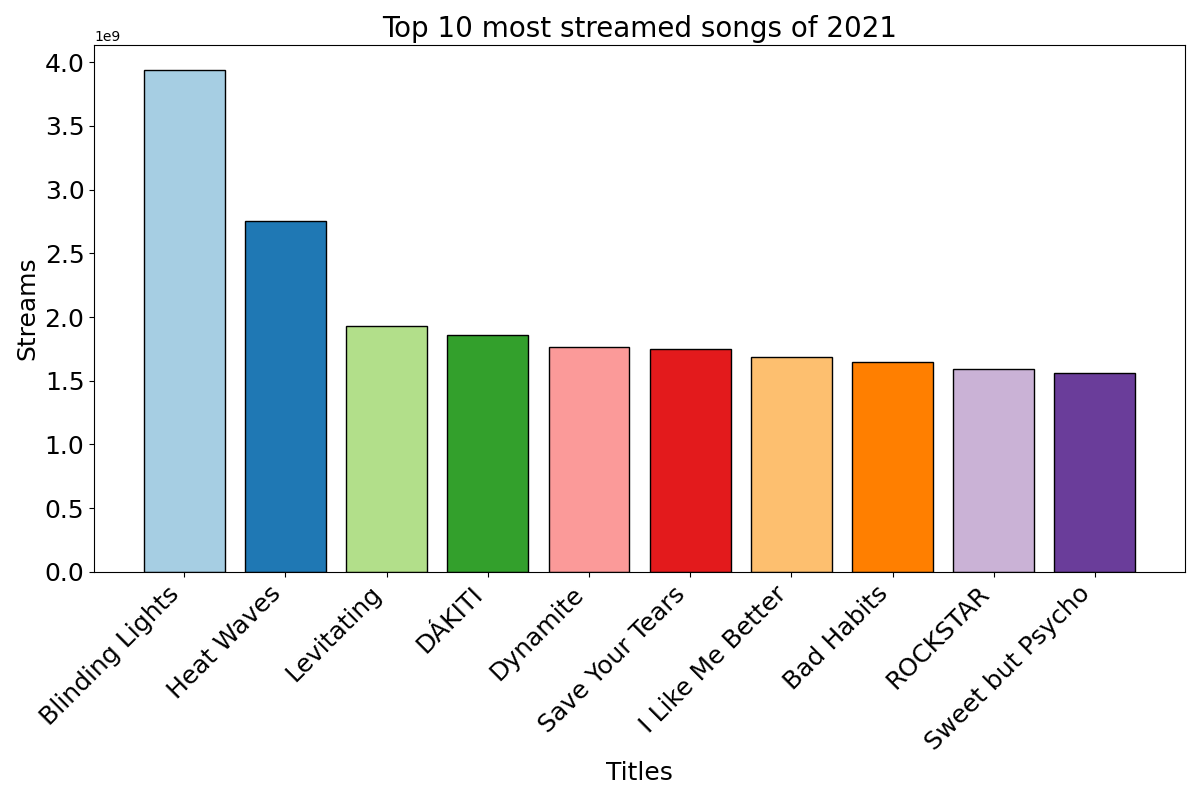
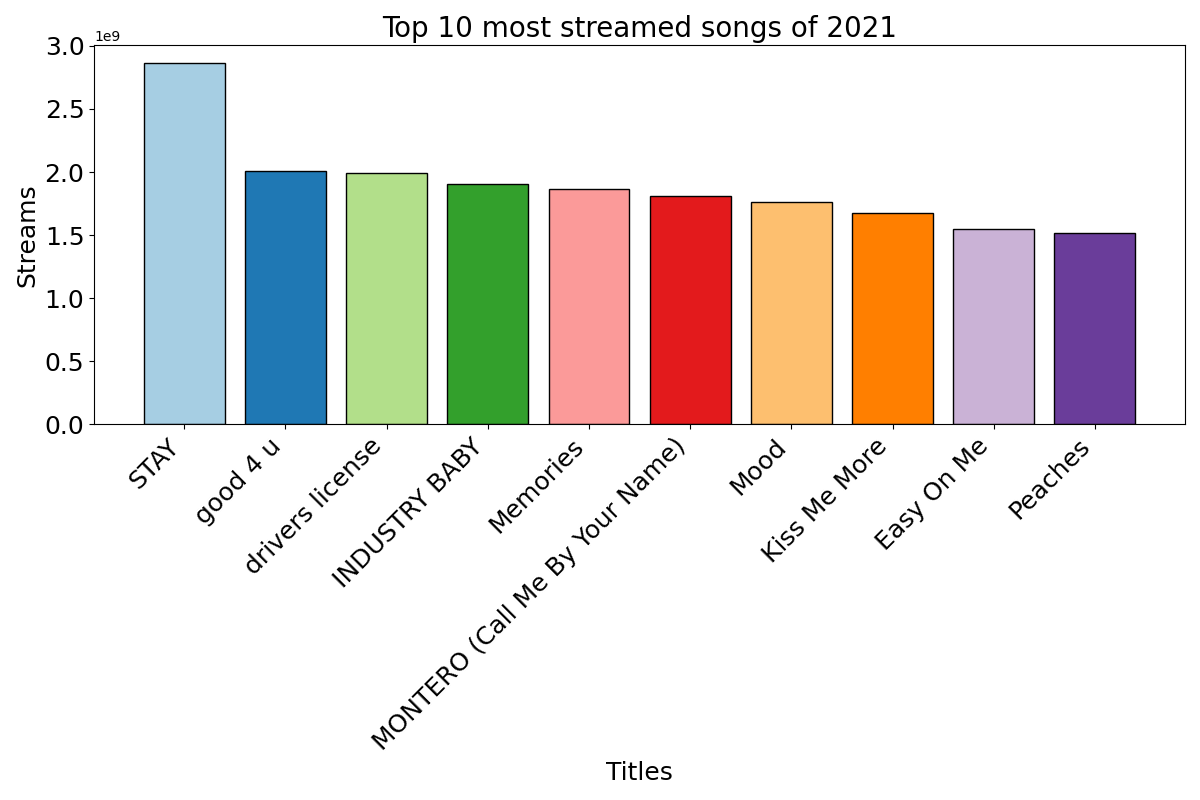
final final push

diff --git a/webpage/song_page_visuals.py b/webpage/song_page_visuals.py
@@ -54,7 +54,7 @@ def top_ten_least_streamed_songs():
 
 def top_ten_most_streamed_songs_of_year(year):
     conn = sqlite3.connect("music.db")
-    query = "SELECT title, most_streams_of_year.total_streams FROM most_streams JOIN most_streams_of_year ON most_streams.streams_id = most_streams_of_year.song_id WHERE year=2020 ORDER BY most_streams_of_year.total_streams DESC LIMIT 10"
+    query = "SELECT title, most_streams_of_year.total_streams FROM most_streams JOIN most_streams_of_year ON most_streams.streams_id = most_streams_of_year.song_id WHERE year='" + year + "' ORDER BY most_streams_of_year.total_streams DESC LIMIT 10"
     data = query_the_database(conn, query)
     conn.close()
     titles, streams = zip(*data)
